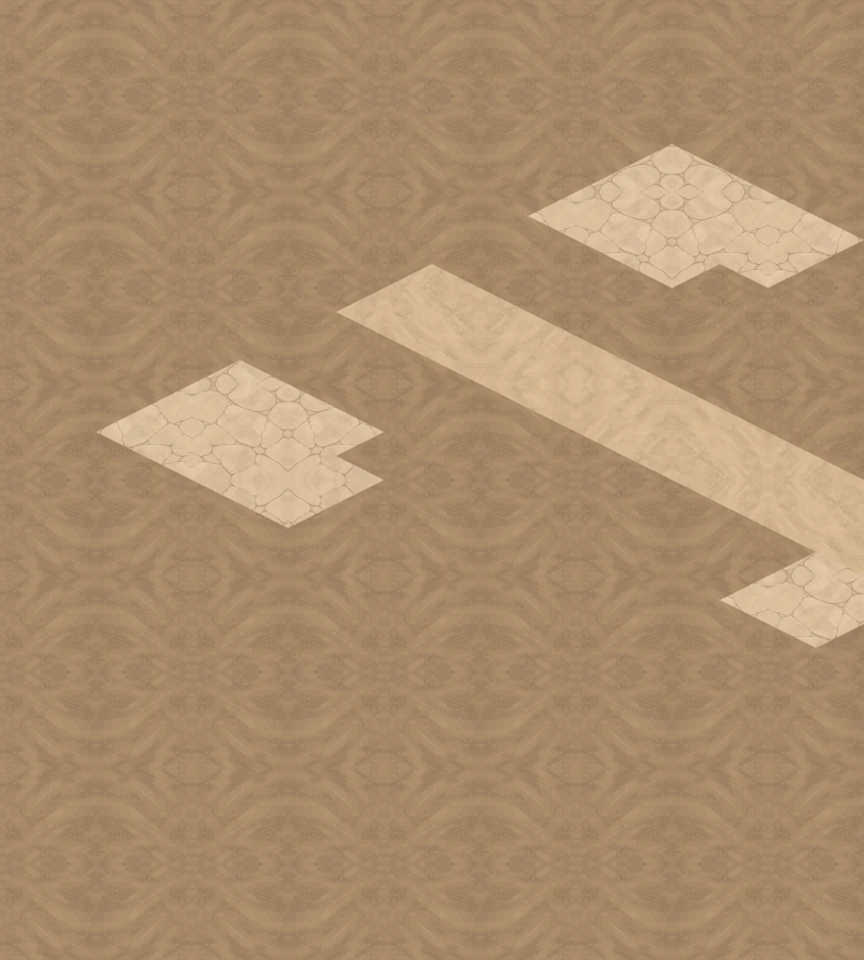
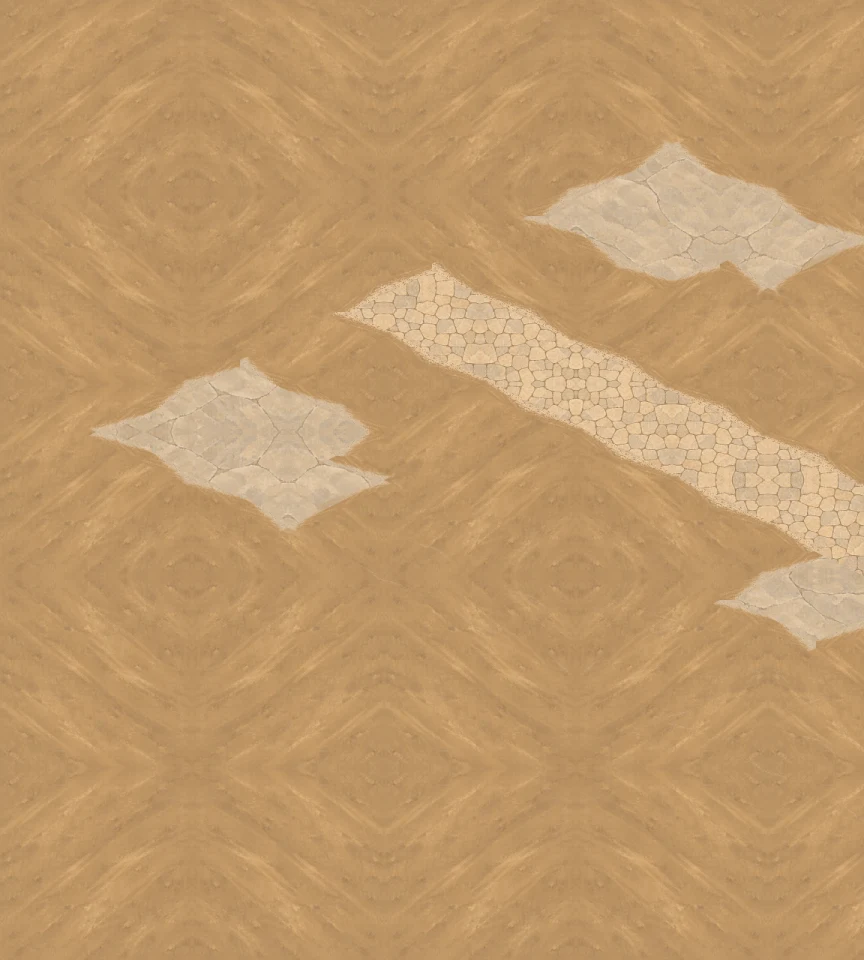
Blend quarry gate ground transitions

diff --git a/scripts/art/quarry-ground-pack.ts b/scripts/art/quarry-ground-pack.ts
@@ -9,10 +9,9 @@ import { encodeWebp } from './lib/webp';
 const [materialPath, coverPath, shoulderPath] = process.argv.slice(2);
 if (!materialPath || !coverPath)
   throw new Error('Provide three-panel materials and transparent timber PNGs.');
-// A ground diamond is128x64 at the registered plate scale. Keep each field at
-// one diamond wide so the flat limestone reads as paving beneath a standing
-// unit instead of as a single oversized slab.
-const FIELD_REPEAT_PX = 128;
+const FIELD_REPEAT_PX = [256, 128, 192] as const;
+const SOURCE_INSET_PX = 24;
+const EDGE_BAND_TILES = 0.15;
 const source = readImage(materialPath),
   timber = readImage(coverPath);
 const shoulderSource = shoulderPath ? readImage(shoulderPath) : null;
@@ -27,28 +26,42 @@ if (shoulderSource) {
 const shoulderBounds = shoulderSource && alphaBounds(shoulderSource);
 const shoulder =
   shoulderSource && shoulderBounds ? scaleTo(crop(shoulderSource, shoulderBounds), 716, 24) : null;
-if (source.width !== source.height * 3)
-  throw new Error('Expected three equal square material panels.');
+const sourceRows = source.width === source.height * 3 ? 1 : 2;
+if (sourceRows === 2 && source.width * 2 !== source.height * 3)
+  throw new Error('Expected three panels or a 3 by 2 sheet of square material panels.');
+const panelSize = source.width / 3;
+if (!Number.isInteger(panelSize) || source.height !== panelSize * sourceRows)
+  throw new Error('Material panels must be equal squares.');
+const panel = (index: number) =>
+  crop(source, {
+    x: (index % 3) * panelSize + SOURCE_INSET_PX,
+    y: Math.floor(index / 3) * panelSize + SOURCE_INSET_PX,
+    width: panelSize - SOURCE_INSET_PX * 2,
+    height: panelSize - SOURCE_INSET_PX * 2,
+  });
 const fields = [0, 1, 2].map((index) =>
   // Normalize the authored marks to ground scale before sampling. Native panel
   // scale made small chips read as knee-high obstacles at the 96px camera.
-  scaleTo(
-    crop(source, {
-      // Discard generation's panel-border contamination before repeating the field.
-      x: index * source.height + 8,
-      y: 8,
-      width: source.height - 16,
-      height: source.height - 16,
-    }),
-    FIELD_REPEAT_PX,
-    FIELD_REPEAT_PX,
-  ),
+  scaleTo(panel(index), FIELD_REPEAT_PX[index] ?? 128, FIELD_REPEAT_PX[index] ?? 128),
 );
+const transitionFields =
+  sourceRows === 2 ? [3, 4, 5].map((index) => scaleTo(panel(index), 128, 128)) : null;
 /** Reflected authored texels meet without seams; no upscaling or invented paint. */
 const mirror = (value: number, size: number) => {
   const period = value % (size * 2);
   return period < size ? period : size * 2 - period - 1;
 };
+type GroundClass = 'dirt' | 'road' | 'shelf';
+const groundClass = (x: number, y: number): GroundClass => {
+  const key = QUARRY_GATE.rows[y]?.[x] ?? '.';
+  return key === '=' ? 'road' : key === '^' || key === 'o' ? 'shelf' : 'dirt';
+};
+const transitionFor = (a: GroundClass, b: GroundClass) =>
+  (a === 'dirt' && b === 'road') || (a === 'road' && b === 'dirt')
+    ? 0
+    : (a === 'dirt' && b === 'shelf') || (a === 'shelf' && b === 'dirt')
+      ? 1
+      : null;
 const plate = newImage(2304, 1280);
 const counts: Record<string, number> = {};
 let shoulderPixels = 0;
@@ -63,7 +76,75 @@ for (let py = 0; py < plate.height; py++)
     const material = key === '=' ? 1 : key === '^' || key === 'o' ? 2 : 0;
     const field = fields[material];
     if (!field) throw new Error('Missing authored material.');
-    setPixel(plate, px, py, pixelAt(field, mirror(px, field.width), mirror(py, field.height)));
+    let sample = pixelAt(field, mirror(px, field.width), mirror(py, field.height));
+    if (transitionFields) {
+      const cx = Math.floor(gx),
+        cy = Math.floor(gy),
+        lx = gx - cx,
+        ly = gy - cy;
+      const current = groundClass(cx, cy);
+      const edges = [
+        {
+          nx: cx - 1,
+          ny: cy,
+          t: (lx + EDGE_BAND_TILES) / (2 * EDGE_BAND_TILES),
+          along: gy,
+          forward: false,
+        },
+        {
+          nx: cx + 1,
+          ny: cy,
+          t: (lx - (1 - EDGE_BAND_TILES)) / (2 * EDGE_BAND_TILES),
+          along: gy,
+          forward: true,
+        },
+        {
+          nx: cx,
+          ny: cy - 1,
+          t: (ly + EDGE_BAND_TILES) / (2 * EDGE_BAND_TILES),
+          along: gx,
+          forward: false,
+        },
+        {
+          nx: cx,
+          ny: cy + 1,
+          t: (ly - (1 - EDGE_BAND_TILES)) / (2 * EDGE_BAND_TILES),
+          along: gx,
+          forward: true,
+        },
+      ];
+      let edge: { index: number; t: number; along: number; wall: boolean } | null = null;
+      for (const candidate of edges) {
+        if (candidate.t < 0 || candidate.t > 1) continue;
+        const neighborKey = QUARRY_GATE.rows[candidate.ny]?.[candidate.nx] ?? '.';
+        const index = transitionFor(current, groundClass(candidate.nx, candidate.ny));
+        const wall = neighborKey === '#' && key !== '#';
+        if (index === null && !wall) continue;
+        const dirtToOther = current === 'dirt' ? candidate.forward : !candidate.forward;
+        const t = dirtToOther ? candidate.t : 1 - candidate.t;
+        if (!edge || Math.abs(t - 0.5) < Math.abs(edge.t - 0.5))
+          edge = { index: index ?? 2, t, along: candidate.along, wall };
+      }
+      if (edge) {
+        const transition = transitionFields[edge.index];
+        if (!transition) throw new Error('Missing authored transition panel.');
+        const painted = pixelAt(
+          transition,
+          Math.min(127, Math.max(0, Math.floor(edge.t * 128))),
+          mirror(Math.floor(edge.along * 128), 128),
+        );
+        if (edge.wall) {
+          const alpha = 0.35;
+          sample = [
+            Math.round(sample[0] * (1 - alpha) + painted[0] * alpha),
+            Math.round(sample[1] * (1 - alpha) + painted[1] * alpha),
+            Math.round(sample[2] * (1 - alpha) + painted[2] * alpha),
+            255,
+          ];
+        } else sample = painted;
+      }
+    }
+    setPixel(plate, px, py, sample);
     // Western approach only. Dust straddles the real road/earth edges by at
     // most12 world pixels; no raised geometry or rule-cell boundary is moved.
     if (shoulder && gx >= 0 && gx < 10) {
